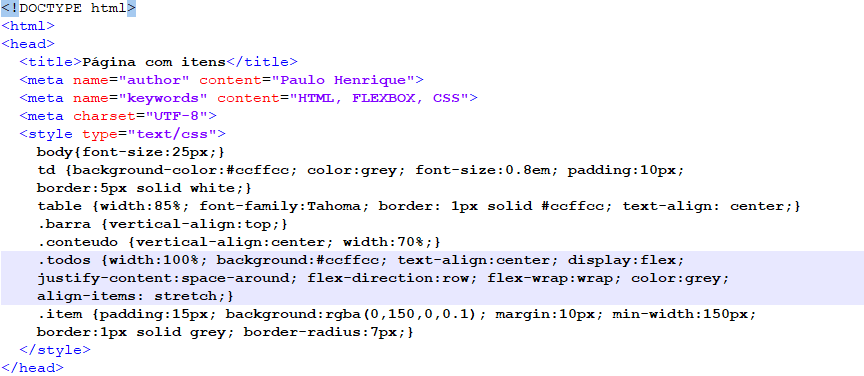
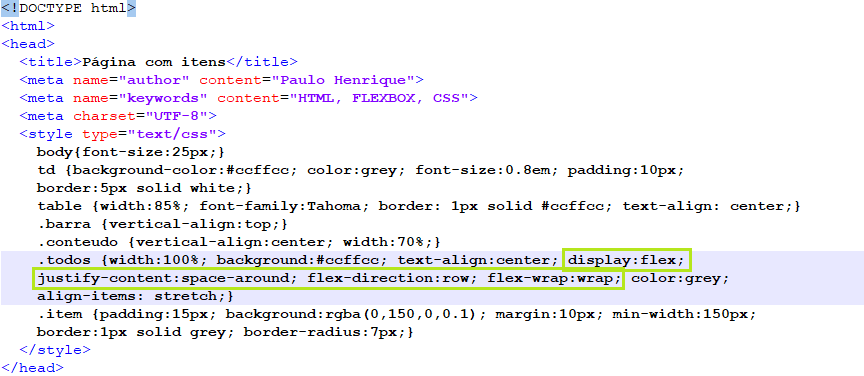
update

Changed region(s): [[0.0312, 0.6436, 0.8125, 0.7899]]

diff --git a/README.md b/README.md
@@ -793,6 +793,7 @@
   </details>
   <p class="topop"><a href="#basico" class="topo">voltar ao topo</a></p>
 </details>
+
 <details id="css1"><summary>CSS - Cascading Style Sheets: pág. 11-20</summary>
 	<img src="css1/tags001_0011.png" />
 	<p class="topop"><a href="#css1" class="topo">voltar ao topo</a></p>
@@ -1204,9 +1205,113 @@
   </details>
   <p class="topop"><a href="#css1" class="topo">voltar ao topo</a></p>
 </details>
-<details id="css1"><summary>CSS e Animações</summary>
-	<p>página 21...</p>
+
+<details id="css2"><summary>CSS, Flexbox e Mapeamentos de imagens: pág. 21-27</summary>
+	<img src="css2/tags001_0021.png" />
+	<details class="sub"><summary>&#x1f4c3; FlexBox para itens</summary>
+	<p>Crie uma página na nossa pasta de exercícios <code>webdesign/exercicios</code> com nome <code>itens.htm</code>. Dentro desta pasta, use a pasta de imagens para inserir fotos dos itens que vamos criar com o atributo FlexBox. É o mesmo que já usamos nos itens dos menus.</p>
+	  <ul class="slider">
+		  <li>
+			   <input type="radio" id="slide150" name="slide">
+			   <label for="slide150"></label>
+			   <img src="css2/21_01_01.png" />
+			   <figcaption>Usando a estrutura em tabela, vamos criar somente uma linha com a tag <code>&lt;tr&gt;</code> com duas barras: <b>lateral</b>, na primeira célula <code>&lt;td&gt;</code> e <b>conteúdo</b>, na segunda célula.</figcaption>
+		   </li>
+		   <li>
+			   <input type="radio" id="slide151" name="slide">
+			   <label for="slide151"></label>
+			   <img src="css2/21_01_02.png" />
+			   <figcaption>As tags podem ser referenciadas com as classes <code>class="barra"</code> e <code>class="conteudo"</code>.</figcaption>
+		   </li>
+		   <li>
+			   <input type="radio" id="slide153" name="slide">
+			   <label for="slide153"></label>
+			   <img src="css2/21_01_03.png" />
+			   <figcaption>Dentro da célula de <b>conteúdo</b>, crie uma nova classe para formatarmos no CSS: <code>class="todos"</code>, que será a tag mãe dos itens.</figcaption>
+		   </li>
+		   <li>
+			   <input type="radio" id="slide154" name="slide">
+			   <label for="slide154"></label>
+			   <img src="css2/21_01_04.png" />
+			   <figcaption>Dentro desta <b>div</b>, podemos criar as tags filhas, que terão classe <code>class="item"</code>. Em cada uma, coloque um texto e a respectiva imagem que está salva na pasta de imagens. Crie 5 ou mais itens, para testarmos o layout que será usado na próxima Atividade.</figcaption>
+		   </li>
+		   <li>
+			   <input type="radio" id="slide155" name="slide">
+			   <label for="slide155"></label>
+			   <img src="css2/21_01_05.png" />
+			   <figcaption>Agora vamos formatar as tags da página com CSS. Nesta página somente foi atribuído o tamanho da fonte na tag <code>body</code>.</figcaption>
+		   </li>
+		   <li>
+			   <input type="radio" id="slide156" name="slide">
+			   <label for="slide156"></label>
+			   <img src="css2/21_01_06.png" />
+			   <figcaption>Neste exemplo, foi usado <code>font-size:0.8em</code>, ou seja, teremos 80% do tamanho da fonte dentro das células. Atributos de cor de fundo e margens também podem ser colocados nesta tag <code>td</code>.</figcaption>
+		   </li>
+		   <li>
+			   <input type="radio" id="slide157" name="slide">
+			   <label for="slide157"></label>
+			   <img src="css2/21_01_07.png" />
+			   <figcaption>A tag mãe das células, <code>table</code>, pode ser usada para a largura do layout, bordas e alinhamento de texto.</figcaption>
+		   </li>
+		   <li>
+			   <input type="radio" id="slide158" name="slide">
+			   <label for="slide158"></label>
+			   <img src="css2/21_01_08.png" />
+			   <figcaption>Use atributos para formatar a barra lateral. Neste caso, foi usado o alinhamento vertical <code>vertical-align:top</code> para deixá-la na mesma altura do conteúdo.</figcaption>
+		   </li>
+		   <li>
+			   <input type="radio" id="slide159" name="slide">
+			   <label for="slide159"></label>
+			   <img src="css2/21_01_09.png" />
+			   <figcaption>A tag de conteúdo pode ter atributo de alinhamento vertical configurado e largura. Se atribuirmos 70% de largura, automaticamente a barra lateral fica com os 30% restantes.</figcaption>
+		   </li>
+		   <li>
+			   <input type="radio" id="slide160" name="slide">
+			   <label for="slide160"></label>
+			   <img src="css2/21_01_10.png" />
+			   <figcaption>A tag com todos os itens ficou com atributo de <code>display:flex;</code>, distribuição em linha <code>flex-direction:row;</code> e o atributo <code>flex-wrap:wrap;</code> para deixar que os itens mudem de linha automaticamente se o navegador não conseguir exibí-los todos na mesma linha.</figcaption>
+		   </li>
+		   <li>
+			   <input type="radio" id="slide161" name="slide">
+			   <label for="slide161"></label>
+			   <img src="css2/21_01_11.png" />
+			   <figcaption>Os itens "herdam" a propriedade flex da tag mãe "todos". Os itens podem ter o atributo de largura mínima <code>min-width:150px;</code>, evitando que o respectivo conteúdo seja "espremido" demais para caber em uma linha só. Cor de fundo, borda e arredondamento de bordas podem ser atribuídos nos itens. Faça testes do layout do flexbox que criamos.</figcaption>
+		   </li>
+		   <li>
+			   <input type="radio" id="slide162" name="slide">
+			   <label for="slide162"></label>
+			   <img src="css2/21_01_12.png" />
+			   <figcaption>A página de itens fica com este layout. Modifique medidas, cores e crie sua página de itens, que será utilizada em próximas Atividades. Se as alturas das imagens ficarem muito diferentes, você pode usar altura mínima <code>min-height</code> ou editar as imagens externamente, deixando-as com mesmo tamanho.</figcaption>
+		   </li>
+		</ul>
+		<img src="css1/20_01_00.png" class="fundo" style="visibility:hidden"/>
+  </details>
+	<img src="css2/tags001_0021a.png" />
+	<p class="topop"><a href="#css2" class="topo">voltar ao topo</a></p>
+	<img src="css2/tags001_0022.png" />
+	<img src="css2/tags001_0022a.png" />
+	<p class="topop"><a href="#css2" class="topo">voltar ao topo</a></p>
+	<img src="css2/tags001_0023.png" />
+	<img src="css2/tags001_0023a.png" />
+	<p class="topop"><a href="#css2" class="topo">voltar ao topo</a></p>
+	<img src="css2/tags001_0024.png" />
+	<p class="topop"><a href="#css2" class="topo">voltar ao topo</a></p>
+	<img src="css2/tags001_0025.png" />
+	<img src="css2/tags001_0025a.png" />
+	<img src="css2/tags001_0025b.png" />
+	<p class="topop"><a href="#css2" class="topo">voltar ao topo</a></p>
+	<img src="css2/tags001_0026.png" />
+	<p class="topop"><a href="#css2" class="topo">voltar ao topo</a></p>
+	<img src="css2/tags001_0027.png" />
+	<img src="css2/tags001_0027a.png" />
+	<img src="css2/tags001_0027b.png" />
+	<p class="topop"><a href="#css2" class="topo">voltar ao topo</a></p>
 </details>
+
+<details id="css3"><summary>CSS e Animações</summary>
+	<p>página 28...</p>
+</details>
+
 <br>&#x1f4bb; &#x1f4c2;
 <p><b>site desenvolvido por:</b></p> 
 <p>Paulo Henrique Siqueira</p>  
